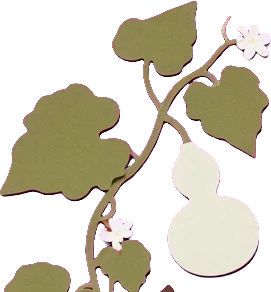
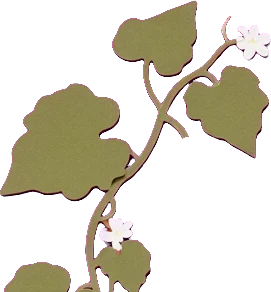
흥부: 박에서 나오는 집 컷을 기와집으로, 줄기 그림에서 매달린 작은 박 지우고 안 쓰는 옛 그림 정리
Claude-Session: https://claude.ai/code/session_01LNk5ZqxZZjA2bBcEAsTsQ1

Changed region(s): [[0.5904, 0.4623, 0.9742, 0.9555], [0.5904, 0.9555, 0.6494, 1.0]]

diff --git a/tales/heungbu/heungbu.js b/tales/heungbu/heungbu.js
@@ -1,7 +1,7 @@
 /* 흥부와 놀부 — 목업. 착한 흥부가 다친 제비를 돌봐 주고 박 속에서 복을 얻고, 욕심쟁이 놀부는 소동을 겪은 뒤 흥부와 나눠 사이좋게 살아요.
    조작은 모두 톡 · 톡톡톡(세기). 쓱·꾹·자유 놀이 없음. */
 (() => {
-  const NF = new Set(['gourd', 'gourd_open', 'rice', 'treasure', 'seed', 'vine', 'cut_house']); // 얼굴 없는 새 그림(파일 이름 끝에 nf)
+  const NF = new Set(['gourd', 'gourd_open', 'rice', 'treasure', 'seed', 'vine']); // 얼굴 없는 새 그림(파일 이름 끝에 nf)
   const G2 = { gourd: 'gourd2_closed', gourd_open: 'gourd2_open', vine: 'gourd2_vine' }; // 새 박 그림
   const U = n => `../../assets/v3w/hb_${G2[n] || n}${!G2[n] && NF.has(n) ? 'nf' : ''}.webp`;
   const AR = {
@@ -44,7 +44,7 @@
     }
 
     await Promise.race([Promise.all(['sky_spring', 'nolkitchen', 'eaves', 'yard', 'sky_autumn', 'nol_eaves', 'nolyard', 'giwa']
-      .map(k => T.preload(U('bg_' + k))).concat(['rice', 'fall', 'bandage2', 'south', 'seedback', 'rice_pour2', 'house', 'mud2', 'dokkaebi', 'collapse']
+      .map(k => T.preload(U('bg_' + k))).concat(['rice', 'fall', 'bandage2', 'south', 'seedback', 'rice_pour2', 'house2', 'mud2', 'dokkaebi', 'collapse']
       .map(k => T.preload(U('cut_' + k))))), sleep(4000)]);
 
     /* 1. 봄 하늘 */
@@ -158,7 +158,7 @@
     const tre = spr('treasure', 640, 130, 490); tre.place(gourds[1].x, 490); tre.hop(18, 300); sfx('ding');
     await say('두 번째 박에서는 반짝반짝 금은보화가 나왔어요!');
     await open(gourds[2], '슬근슬근!');
-    await cut('house', 'pop', 3600);
+    await cut('house2', 'pop', 3600);
     await say('세 번째 박에서는 작은 박 요정들이 나와 멋진 새집을 지어 주었어요!');
     T.confetti();
 
